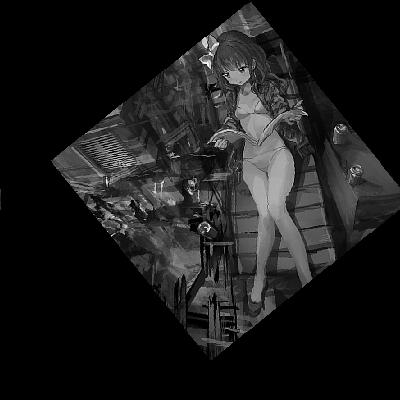
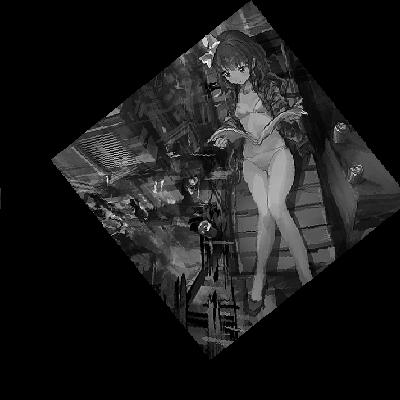
Update.

diff --git a/Geometry/AffineTrans/HDLSimDataGen/create.py b/Geometry/AffineTrans/HDLSimDataGen/create.py
@@ -16,13 +16,13 @@ for root,dirs,files in os.walk('../ImageForTest'):
         	FileAll.append((root+'/', name, ex))
 
 def aff_format1(a):
-	r, d = format(a, 'f').split('.')
-	s = '1' if a < 0 else '0'
-	r = bin(int(r)).split('0b')
+	r = int(a)
+	d = abs(a - r)
+	r = [bin(int(r)).split('0b').pop()]
+	r.insert(0, '1' if a < 0 else '0')
 	for i in xrange(8 - len(r[1])):
 		r[1] = '0' + r[1]
-	r = s + r[1]
-	d = float('0.' + d)
+	r = r[0] + r[1]
 	res = ''
 	for i in xrange(16):
 		d = d * 2
@@ -31,12 +31,11 @@ def aff_format1(a):
 	return r + res
 
 def aff_format2(a):
-	s = '1' if a < 0 else '0'
-	r = bin(a).split('0b')
+	r = [bin(int(a)).split('0b').pop()]
+	r.insert(0, '1' if a < 0 else '0')
 	for i in xrange(16 - len(r[1])):
 		r[1] = '0' + r[1]
-	r[0] = '1' if r[0] == '-' else '0'
-	return s + r[1]
+	return r[0] + r[1]
 
 def color_format(color):
 	res = bin(color)[2:]
@@ -71,10 +70,11 @@ for root, name, ex in FileAll:
 		av = int(c['av'])
 		axu = avy / (aux * avy - auy * avx)
 		axv = -auy / (aux * avy - auy * avx)
-		ax = int ((auy * av - au * avy) / (aux * avy - auy * avx))
+		ax = (auy * av - au * avy) / (aux * avy - auy * avx)
 		ayu = -avx / (aux * avy - auy * avx)
 		ayv = aux / (aux * avy - auy * avx)
-		ay = int ((-aux * av + au * avx) / (aux * avy - auy * avx))
+		ay = (-aux * av + au * avx) / (aux * avy - auy * avx)
+		# print axu, axv, ax, ayu, ayv, ay
 		dat_res = open('../FunSimForHDL/%s-%sx%sx%s-%sx%sx%s.dat' % \
 			(name, c['aux'], c['auy'], c['au'], c['avx'], c['avy'], c['av']), 'w')
 		dat_res.write('%d\n%d\n' % (xsize, ysize))

diff --git a/Geometry/AffineTrans/SoftwareSim/sim1.py b/Geometry/AffineTrans/SoftwareSim/sim1.py
@@ -73,8 +73,10 @@ def transform(im, aux, auy, au, avx, avy, av):
 	ay = (-aux * av + au * avx) / (aux * avy - auy * avx)
 	ayu = -avx / (aux * avy - auy * avx)
 	ayv = aux / (aux * avy - auy * avx)
+	# print axu, axv, ax, ayu, ayv, ay
 	def address_gen(u, v):
-		return int(axu * u + axv * v + ax), int(ayu * u + ayv * v + ay)
+		# sync as FPGA
+		return int(round(axu * u) + round(axv * v) + int(ax)), int(round(ayu * u) + round(ayv * v) + int(ay))
 	data_src = im.getdata()
 	xsize, ysize = im.size
 	data_res = list(Image.new('L', (xsize, ysize), 0).getdata())

diff --git a/Geometry/AffineTrans/README.md b/Geometry/AffineTrans/README.md
@@ -21,3 +21,7 @@ Then, compile all your source file:
 Then, run this:
 
     do $proj_path/FunSimForHDL/Run.do
+
+If you just want to the finally result, and don't want to watch the waveform, run this:  
+
+    do $proj_path/FunSimForHDL/RunOver.do
